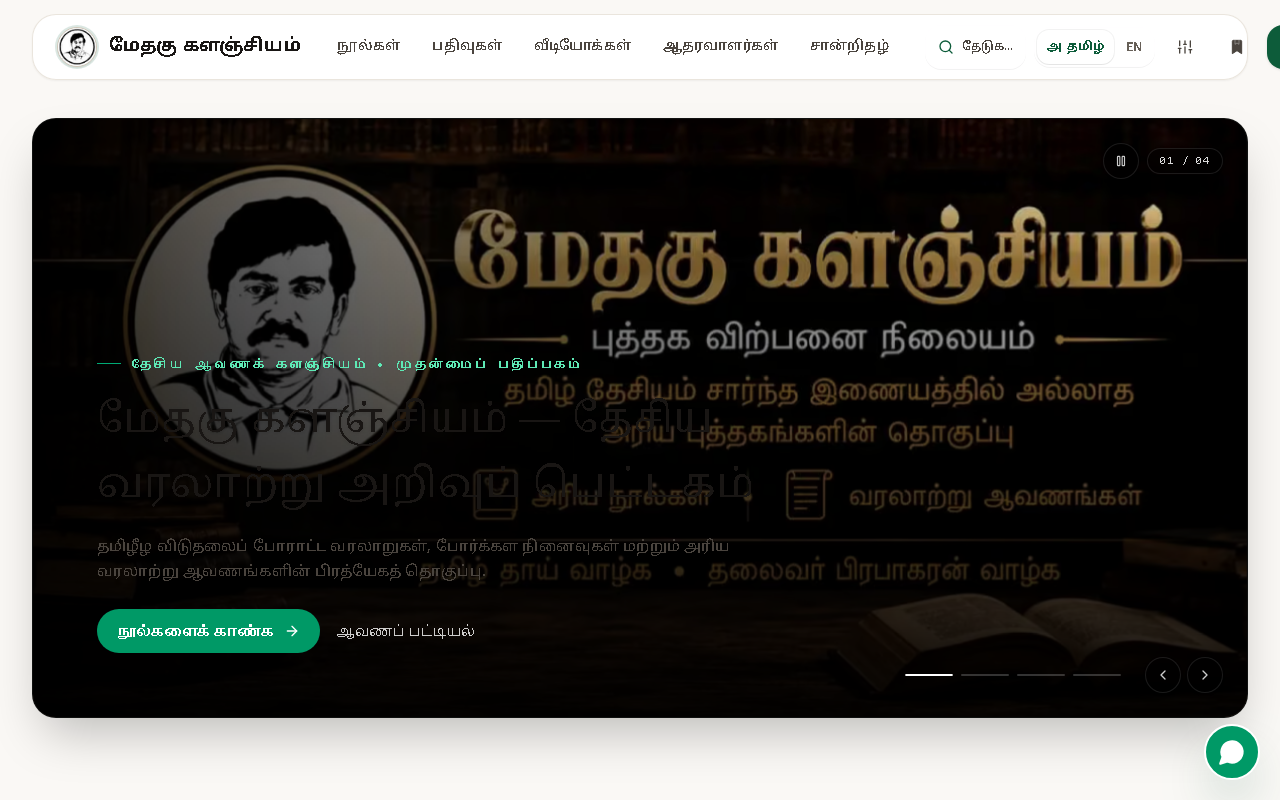
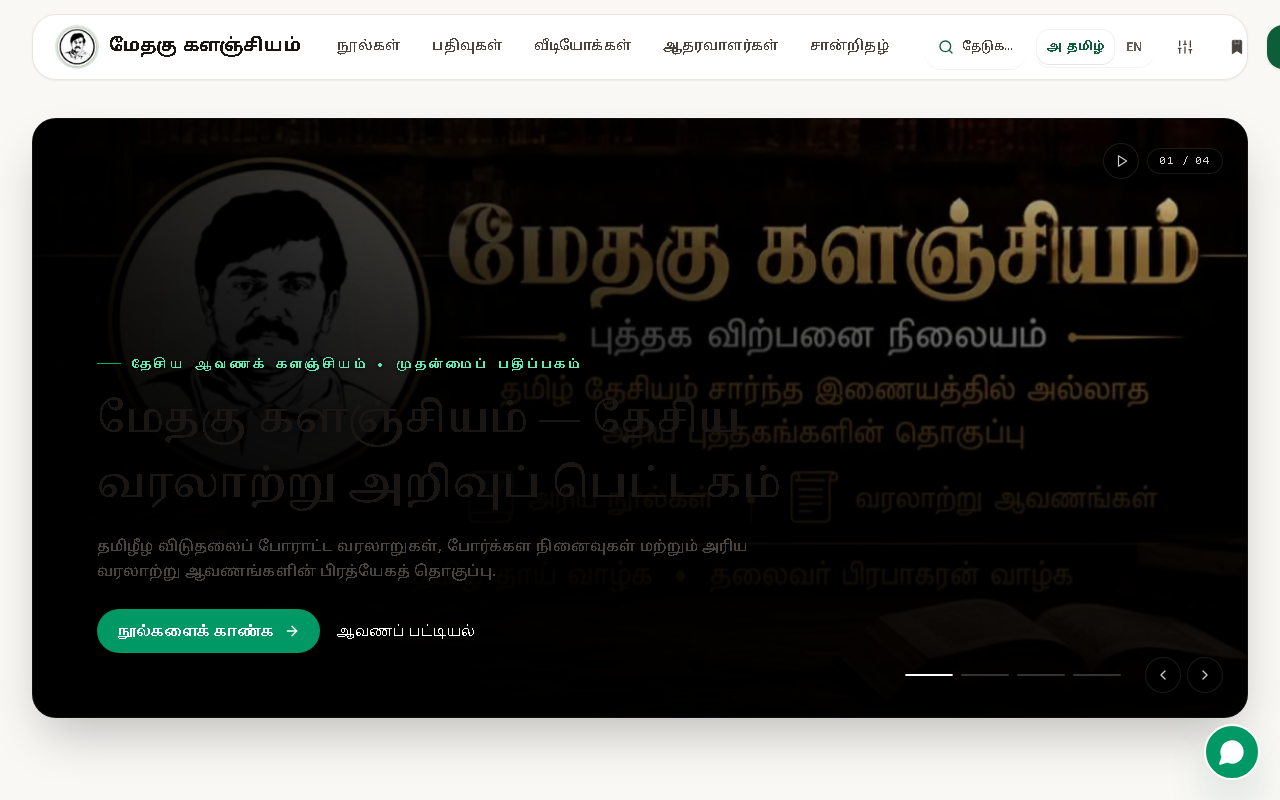
fix(hero): enhance slider readability and contrast to meet WCAG AA

diff --git a/src/components/home/HeroSlider.tsx b/src/components/home/HeroSlider.tsx
@@ -73,6 +73,23 @@ export function HeroSlider({
     return () => mediaQuery.removeEventListener("change", handleChange);
   }, []);
 
+  // Deep-link / query param support (?slide=0..3)
+  React.useEffect(() => {
+    if (!emblaApi || typeof window === "undefined") return;
+    try {
+      const params = new URLSearchParams(window.location.search);
+      const slideParam = params.get("slide");
+      if (slideParam !== null) {
+        const targetIdx = parseInt(slideParam, 10);
+        if (!isNaN(targetIdx) && targetIdx >= 0 && targetIdx < slides.length) {
+          emblaApi.scrollTo(targetIdx, true);
+        }
+      }
+    } catch {
+      // Ignore URL parsing errors
+    }
+  }, [emblaApi, slides.length]);
+
   // Sync selected index with Embla and restart progress animation key
   const onSelect = React.useCallback(() => {
     if (!emblaApi) return;
@@ -217,9 +234,10 @@ export function HeroSlider({
                       />
                     </picture>
 
-                    {/* Dual-Layered Directional Optical Scrim for Text Legibility (WCAG AAA) */}
-                    <div className="absolute inset-0 bg-gradient-to-t from-black/92 via-black/45 to-transparent pointer-events-none" />
-                    <div className="absolute inset-0 bg-gradient-to-r from-black/75 via-black/25 to-transparent pointer-events-none" />
+                    {/* Directional Progressive Scrims for Text Legibility (WCAG AAA) */}
+                    <div className="absolute inset-0 bg-[linear-gradient(to_top,rgba(0,0,0,0.96)_0%,rgba(0,0,0,0.82)_35%,rgba(0,0,0,0.42)_70%,transparent_100%)] pointer-events-none" />
+                    <div className="absolute inset-0 bg-[linear-gradient(to_right,rgba(0,0,0,0.92)_0%,rgba(0,0,0,0.65)_40%,rgba(0,0,0,0.20)_75%,transparent_100%)] pointer-events-none" />
+                    <div className="absolute bottom-0 left-0 w-full sm:w-4/5 lg:w-3/5 h-4/5 bg-[radial-gradient(ellipse_at_bottom_left,rgba(0,0,0,0.65)_0%,rgba(0,0,0,0.25)_50%,transparent_75%)] pointer-events-none" />
                   </div>
 
                   {/* Editorial Left-Aligned Caption Block */}
@@ -236,7 +254,7 @@ export function HeroSlider({
                         )}
                       >
                         <span className="h-[1px] w-5 sm:w-6 bg-emerald-400/80 inline-block" />
-                        <span className="text-[10px] sm:text-xs font-semibold tracking-[0.2em] uppercase font-mono text-emerald-300 drop-shadow-xs">
+                        <span className="text-[10px] sm:text-xs font-bold tracking-[0.2em] uppercase font-mono text-emerald-300 drop-shadow-[0_1px_3px_rgba(0,0,0,0.95)]">
                           {isTa ? slide.eyebrowTa : slide.eyebrowEn}
                         </span>
                       </div>
@@ -245,7 +263,7 @@ export function HeroSlider({
                       {index === 0 ? (
                         <h1
                           className={cn(
-                            "text-[clamp(1.75rem,3.2vw,2.75rem)] leading-[1.14] font-medium font-serif font-tamil-serif text-white tracking-[-0.015em] drop-shadow-sm transition-all duration-700 delay-[80ms] ease-out",
+                            "text-[clamp(1.75rem,3.2vw,2.75rem)] leading-[1.14] font-semibold font-serif font-tamil-serif text-white tracking-[-0.015em] drop-shadow-[0_2px_10px_rgba(0,0,0,0.85)] transition-all duration-700 delay-[80ms] ease-out",
                             isActive
                               ? "opacity-100 translate-y-0"
                               : "opacity-0 translate-y-3 pointer-events-none",
@@ -257,7 +275,7 @@ export function HeroSlider({
                       ) : (
                         <h2
                           className={cn(
-                            "text-[clamp(1.75rem,3.2vw,2.75rem)] leading-[1.14] font-medium font-serif font-tamil-serif text-white tracking-[-0.015em] drop-shadow-sm transition-all duration-700 delay-[80ms] ease-out",
+                            "text-[clamp(1.75rem,3.2vw,2.75rem)] leading-[1.14] font-semibold font-serif font-tamil-serif text-white tracking-[-0.015em] drop-shadow-[0_2px_10px_rgba(0,0,0,0.85)] transition-all duration-700 delay-[80ms] ease-out",
                             isActive
                               ? "opacity-100 translate-y-0"
                               : "opacity-0 translate-y-3 pointer-events-none",
@@ -271,7 +289,7 @@ export function HeroSlider({
                       {/* Subtitle / Narrative Description */}
                       <p
                         className={cn(
-                          "text-[clamp(0.875rem,1.15vw,1.05rem)] text-white/75 font-normal leading-relaxed max-w-2xl font-tamil transition-all duration-700 delay-[160ms] ease-out",
+                          "text-[clamp(0.875rem,1.15vw,1.05rem)] text-white/95 font-medium leading-relaxed max-w-2xl font-tamil drop-shadow-[0_1px_4px_rgba(0,0,0,0.85)] transition-all duration-700 delay-[160ms] ease-out",
                           isActive
                             ? "opacity-100 translate-y-0"
                             : "opacity-0 translate-y-3 pointer-events-none",
@@ -302,7 +320,7 @@ export function HeroSlider({
                         {slide.ctaSecondaryHref && (
                           <Link
                             href={slide.ctaSecondaryHref}
-                            className="inline-flex items-center gap-2 text-xs sm:text-sm font-medium text-white/80 hover:text-white transition-colors relative group py-2 min-h-[44px] focus:outline-none focus-visible:ring-2 focus-visible:ring-emerald-400 rounded-sm"
+                            className="inline-flex items-center gap-2 text-xs sm:text-sm font-medium text-white hover:text-emerald-300 transition-colors relative group py-2 min-h-[44px] focus:outline-none focus-visible:ring-2 focus-visible:ring-emerald-400 rounded-sm drop-shadow-[0_1px_3px_rgba(0,0,0,0.85)]"
                           >
                             <span>
                               {isTa ? slide.ctaSecondaryLabelTa : slide.ctaSecondaryLabelEn}

diff --git a/src/app/verify-email/page.tsx b/src/app/verify-email/page.tsx
@@ -6,7 +6,7 @@ import Image from "next/image";
 import { useSearchParams } from "next/navigation";
 import { CheckCircle2, AlertCircle, Loader2, ArrowRight, RefreshCw, Mail } from "lucide-react";
 
-export default function VerifyEmailPage() {
+function VerifyEmailContent() {
   const searchParams = useSearchParams();
   const token = searchParams.get("token");
   const queryStatus = searchParams.get("status");
@@ -211,6 +211,20 @@ export default function VerifyEmailPage() {
         )}
       </div>
     </div>
+  );
+}
+
+export default function VerifyEmailPage() {
+  return (
+    <React.Suspense
+      fallback={
+        <div className="min-h-[80vh] flex items-center justify-center p-8">
+          <div className="w-8 h-8 rounded-full border-2 border-[#0A6847] border-t-transparent animate-spin" />
+        </div>
+      }
+    >
+      <VerifyEmailContent />
+    </React.Suspense>
   );
 }
 
